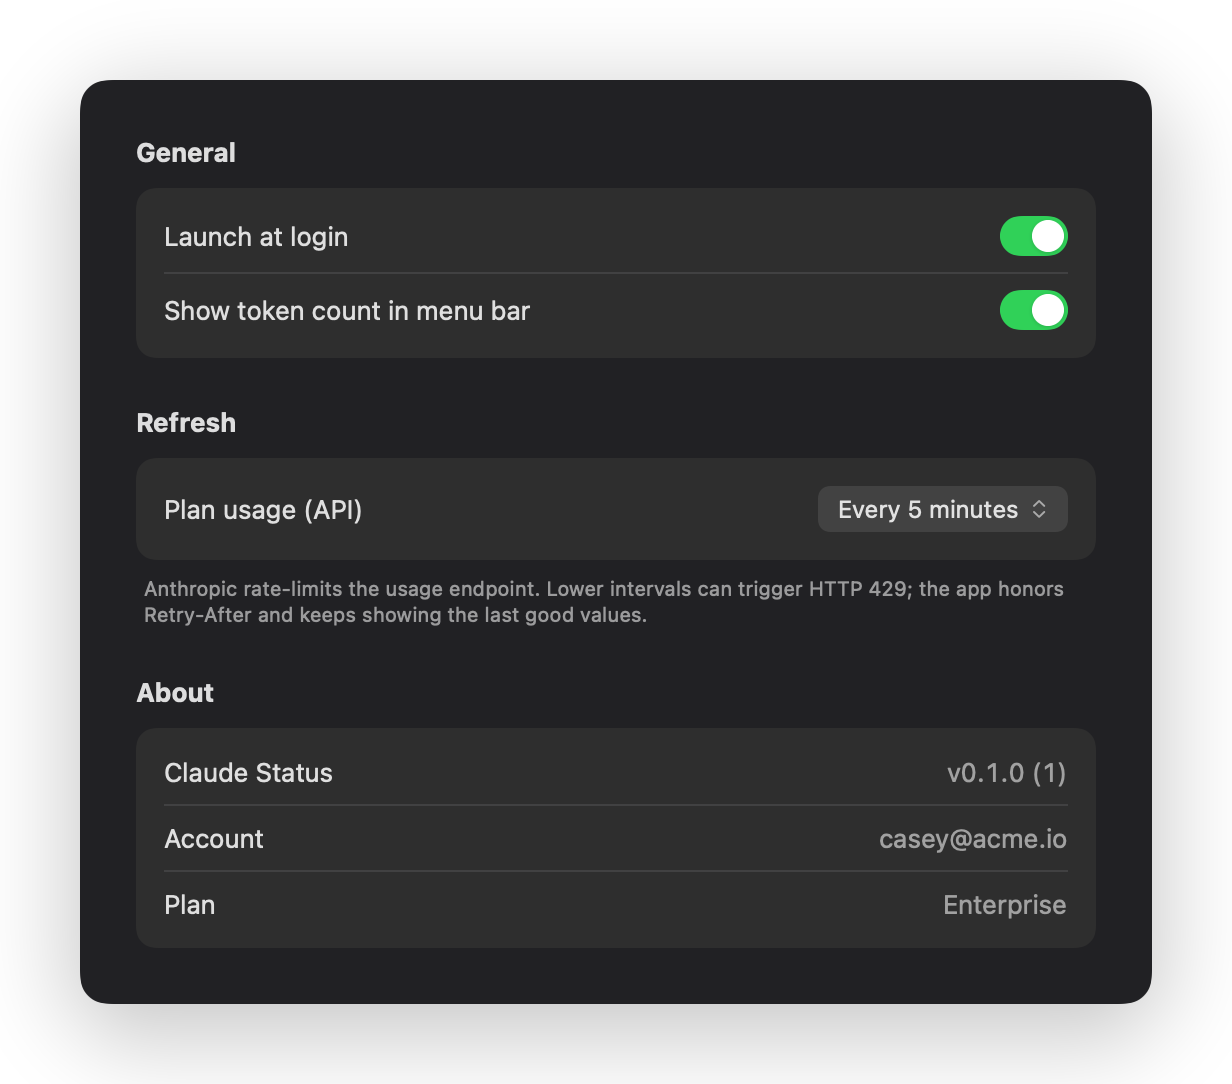
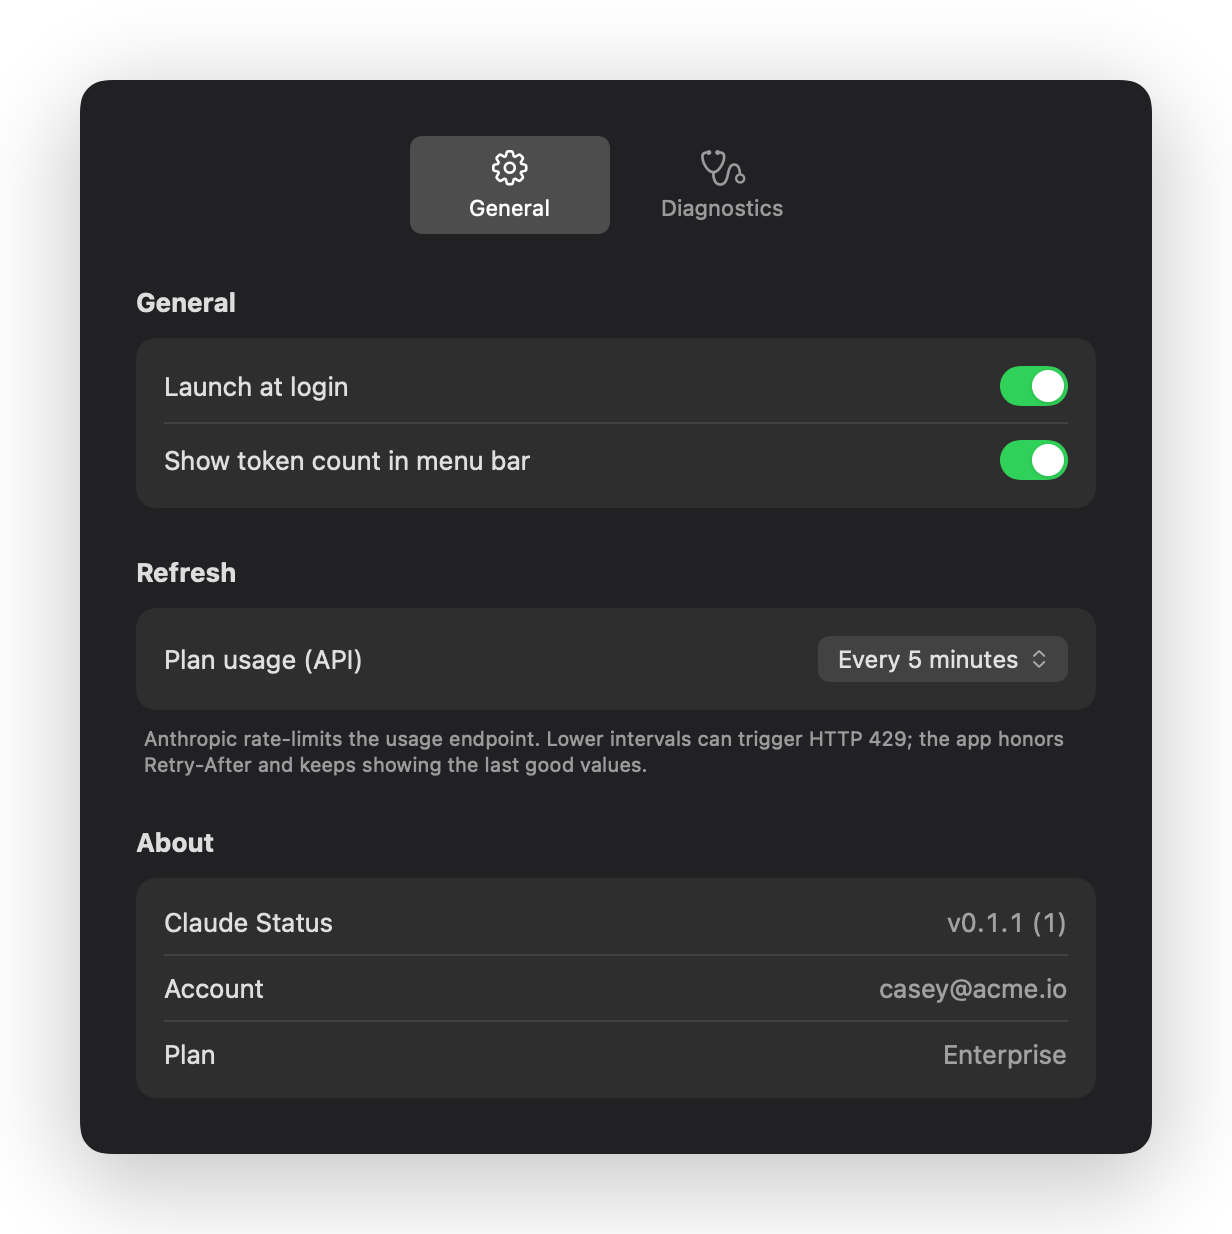
Website + screenshots for the Diagnostics pane
Screenshots:
- New `--screenshot diagnostics` variant renders a StaticDiagnosticsView
  mimic (Form/.grouped still lays out blank through ImageRenderer), with
  anonymous demo entries covering all three states: the live entry, a
  stale one from an old login, and one this app can't read.
- StaticSettingsView gains the General/Diagnostics tab strip so the
  settings shots match the real tabbed window.
- The About row's version moves to ScreenshotMode.displayVersion; it read
  a hardcoded v0.1.0. The release checklist now calls out bumping it.

Website:
- Feature card 07, full-width via .card-wide, explaining why the pane is
  read-only and how the removal command works.
- Diagnostics figure in the gallery.
- Two FAQ entries: the "token expired right after login" case, and why
  the app won't delete Keychain entries for you.
- Card 06 said "Ad-hoc signed today; notarized build coming" — stale
  since v0.1.0 ships signed and notarized.

Only settings-*.png changed among the existing assets; the popup and
marketing renders were byte-churn with no visual change, so they're left
alone rather than adding ~16 MB of identical PNGs to history.

diff --git a/Sources/ClaudeStatus/ScreenshotMode.swift b/Sources/ClaudeStatus/ScreenshotMode.swift
@@ -8,6 +8,12 @@ enum ScreenshotMode {
     static let canvasWidth: CGFloat = 1440
     static let canvasHeight: CGFloat = 900
 
+    /// Version string painted into the About row of the Settings mimic.
+    /// The screenshot binary runs outside an .app bundle, so there's no
+    /// Info.plist to read — keep this in step with `version` in
+    /// Bundler.toml (the release checklist calls it out).
+    static let displayVersion = "v0.1.1 (1)"
+
     /// Render screenshots with anonymous demo data.
     ///   kind = enterprise | pro            (full-canvas App-Store gallery)
     ///        | popup-enterprise | popup-pro (just the dropdown card)
@@ -20,8 +26,8 @@ enum ScreenshotMode {
         let kinds: [String]
         switch rawKind.lowercased() {
         case "all":
-            kinds = ["enterprise", "pro", "popup-enterprise", "popup-pro", "settings"]
-        case let s where ["enterprise", "pro", "popup-enterprise", "popup-pro", "settings"].contains(s):
+            kinds = ["enterprise", "pro", "popup-enterprise", "popup-pro", "settings", "diagnostics"]
+        case let s where ["enterprise", "pro", "popup-enterprise", "popup-pro", "settings", "diagnostics"].contains(s):
             kinds = [s]
         default:
             FileHandle.standardError.write(Data("unknown kind: \(rawKind)\n".utf8))
@@ -35,6 +41,7 @@ enum ScreenshotMode {
             case "popup-enterprise": renderPopup(planKey: "enterprise",     outDir: outDir)
             case "popup-pro":        renderPopup(planKey: "pro",            outDir: outDir)
             case "settings":         renderSettings(outDir: outDir)
+            case "diagnostics":      renderDiagnostics(outDir: outDir)
             default: break
             }
         }
@@ -115,6 +122,23 @@ enum ScreenshotMode {
         }
     }
 
+    private static func renderDiagnostics(outDir: String) {
+        for scheme: ColorScheme in [.light, .dark] {
+            let suffix = scheme == .light ? "light" : "dark"
+            let outURL = URL(fileURLWithPath: outDir)
+                .appendingPathComponent("diagnostics-\(suffix).png")
+
+            let view = StaticDiagnosticsView(
+                entries: DemoData.diagnostics(),
+                scheme: scheme
+            )
+            .padding(40)
+            .environment(\.colorScheme, scheme)
+
+            writePNG(view: view, to: outURL, opaque: false)
+        }
+    }
+
     // MARK: - Renderer plumbing
 
     private static func writePNG<V: View>(view: V, to outURL: URL, opaque: Bool) {
@@ -147,6 +171,7 @@ private struct StaticSettingsView: View {
 
     var body: some View {
         VStack(alignment: .leading, spacing: 24) {
+            SettingsTabStrip(active: .general, scheme: scheme)
             section(header: "General") {
                 row { Text("Launch at login") } trailing: { toggle(on: true) }
                 divider
@@ -164,7 +189,7 @@ private struct StaticSettingsView: View {
 
             section(header: "About") {
                 row { Text("Claude Status") } trailing: {
-                    Text("v0.1.0 (1)").monospacedDigit().foregroundStyle(.secondary)
+                    Text(ScreenshotMode.displayVersion).monospacedDigit().foregroundStyle(.secondary)
                 }
                 divider
                 row { Text("Account") } trailing: {
@@ -264,6 +289,173 @@ private struct StaticSettingsView: View {
                       ? Color(white: 0.26)
                       : Color(white: 0.94))
         )
+    }
+}
+
+/// macOS-style Settings tab strip. Hand-rolled for the same reason as
+/// `StaticSettingsView` — a real `TabView` lays out blank through
+/// `ImageRenderer`.
+private struct SettingsTabStrip: View {
+    enum Tab { case general, diagnostics }
+    let active: Tab
+    let scheme: ColorScheme
+
+    var body: some View {
+        HStack(spacing: 6) {
+            Spacer()
+            tab("General", systemImage: "gearshape", isActive: active == .general)
+            tab("Diagnostics", systemImage: "stethoscope", isActive: active == .diagnostics)
+            Spacer()
+        }
+        .padding(.bottom, 2)
+    }
+
+    private func tab(_ title: String, systemImage: String, isActive: Bool) -> some View {
+        VStack(spacing: 3) {
+            Image(systemName: systemImage)
+                .font(.system(size: 17, weight: .regular))
+            Text(title).font(.system(size: 11))
+        }
+        .foregroundStyle(isActive
+                         ? (scheme == .dark ? Color.white : Color.black)
+                         : Color.secondary)
+        .frame(width: 100)
+        .padding(.vertical, 6)
+        .background(
+            RoundedRectangle(cornerRadius: 6)
+                .fill(isActive
+                      ? (scheme == .dark ? Color(white: 0.30) : Color(white: 0.86))
+                      : Color.clear)
+        )
+    }
+}
+
+/// Hand-rolled mimic of `DiagnosticsView` for ImageRenderer.
+private struct StaticDiagnosticsView: View {
+    let entries: [KeychainEntryDiagnostic]
+    let scheme: ColorScheme
+
+    var body: some View {
+        VStack(alignment: .leading, spacing: 24) {
+            SettingsTabStrip(active: .diagnostics, scheme: scheme)
+
+            VStack(alignment: .leading, spacing: 8) {
+                Text("Credential entries").font(.headline)
+                VStack(spacing: 0) {
+                    ForEach(Array(entries.enumerated()), id: \.element.id) { idx, e in
+                        if idx > 0 { divider }
+                        row(e)
+                    }
+                }
+                .padding(.vertical, 8)
+                .padding(.horizontal, 14)
+                .background(
+                    RoundedRectangle(cornerRadius: 10)
+                        .fill(scheme == .dark ? Color(white: 0.18) : Color.white)
+                )
+                Text("""
+                     Claude Status reads these and never writes to the Keychain. \
+                     It uses the entry with the latest expiry — the one marked In use. \
+                     Extra entries are inert.
+                     """)
+                    .font(.caption)
+                    .foregroundStyle(.secondary)
+                    .padding(.horizontal, 4)
+                    .fixedSize(horizontal: false, vertical: true)
+            }
+        }
+        .frame(width: 480)
+        .padding(.vertical, 28)
+        .padding(.horizontal, 28)
+        .background(
+            RoundedRectangle(cornerRadius: 14)
+                .fill(scheme == .dark
+                      ? Color(red: 0.13, green: 0.13, blue: 0.14)
+                      : Color(red: 0.94, green: 0.94, blue: 0.96))
+                .shadow(color: .black.opacity(0.25), radius: 26, x: 0, y: 12)
+        )
+    }
+
+    @ViewBuilder
+    private func row(_ e: KeychainEntryDiagnostic) -> some View {
+        VStack(alignment: .leading, spacing: 5) {
+            HStack(spacing: 6) {
+                Text(e.account).font(.system(.body, design: .monospaced))
+                if e.isSelected {
+                    Text("IN USE")
+                        .font(.caption2.weight(.semibold))
+                        .padding(.horizontal, 5)
+                        .padding(.vertical, 1)
+                        .background(Capsule().fill(Color.accentColor.opacity(0.18)))
+                        .foregroundStyle(Color.accentColor)
+                }
+                Spacer()
+                Text(e.source.rawValue).font(.caption).foregroundStyle(.secondary)
+            }
+
+            status(e)
+
+            Text("Created \(Self.short(e.createdAt)) · Modified \(Self.short(e.modifiedAt))")
+                .font(.caption)
+                .foregroundStyle(.secondary)
+
+            if let plan = e.subscriptionType {
+                Text("Plan \(plan.capitalized)").font(.caption).foregroundStyle(.secondary)
+            }
+
+            if !e.isSelected {
+                HStack(spacing: 6) {
+                    Text("Copy removal command")
+                        .font(.caption)
+                        .padding(.horizontal, 8)
+                        .padding(.vertical, 3)
+                        .background(
+                            RoundedRectangle(cornerRadius: 5)
+                                .fill(scheme == .dark ? Color(white: 0.30) : Color(white: 0.93))
+                        )
+                    Text("not used by Claude Status")
+                        .font(.caption)
+                        .foregroundStyle(.secondary)
+                }
+                .padding(.top, 1)
+            }
+        }
+        .padding(.vertical, 9)
+    }
+
+    @ViewBuilder
+    private func status(_ e: KeychainEntryDiagnostic) -> some View {
+        if let err = e.readError {
+            label("Not readable — \(err)",
+                  systemImage: "lock.trianglebadge.exclamationmark", tint: .orange)
+        } else if let exp = e.expiresAt, e.isExpired {
+            label("Expired \(Self.short(exp))", systemImage: "xmark.circle.fill", tint: .red)
+        } else if let exp = e.expiresAt {
+            label("Valid until \(Self.short(exp))", systemImage: "checkmark.circle.fill", tint: .green)
+        } else {
+            label("No expiry in payload", systemImage: "questionmark.circle", tint: .secondary)
+        }
+    }
+
+    private func label(_ text: String, systemImage: String, tint: Color) -> some View {
+        HStack(spacing: 4) {
+            Image(systemName: systemImage).imageScale(.small)
+            Text(text)
+        }
+        .font(.caption)
+        .foregroundStyle(tint)
+    }
+
+    private var divider: some View {
+        Rectangle().fill(Color.gray.opacity(0.18)).frame(height: 1)
+    }
+
+    private static func short(_ d: Date?) -> String {
+        guard let d else { return "—" }
+        let f = DateFormatter()
+        f.dateStyle = .medium
+        f.timeStyle = .short
+        return f.string(from: d)
     }
 }
 

diff --git a/website/index.html b/website/index.html
@@ -201,7 +201,17 @@
       <article class="card">
         <span class="card-num">06</span>
         <h3>Open source</h3>
-        <p>Auditable end-to-end. Distributed via a Homebrew cask. Ad-hoc signed today; notarized build coming with an Apple Developer ID.</p>
+        <p>Auditable end-to-end. Distributed via a Homebrew cask, signed with an Apple Developer ID and notarized by Apple.</p>
+      </article>
+      <article class="card card-wide">
+        <span class="card-num">07</span>
+        <h3>Diagnostics that explain themselves</h3>
+        <p>
+          Claude Code can leave several <code>Claude Code-credentials</code> entries in your Keychain — an old one from before a username change, another from an older build. Claude Status picks the one with the latest expiry, and the <strong>Diagnostics</strong> tab shows you exactly which that was, alongside every entry it considered.
+        </p>
+        <p>
+          It's strictly read-only: the app never writes to your Keychain and has no delete button. Stale entries are harmless, so if you'd rather tidy up, each unused row hands you the exact <code>security delete-generic-password</code> command to run yourself. No token is ever displayed or copied.
+        </p>
       </article>
     </div>
   </div>
@@ -236,6 +246,13 @@
           <img src="assets/settings-light.png" alt="Settings window" loading="lazy">
         </picture>
         <figcaption><strong>Options.</strong> Pick how often the API gets polled — or turn it off entirely.</figcaption>
+      </figure>
+      <figure class="figure-wide">
+        <picture>
+          <source srcset="assets/diagnostics-dark.png" media="(prefers-color-scheme: dark)">
+          <img src="assets/diagnostics-light.png" alt="Diagnostics tab listing Keychain credential entries" loading="lazy">
+        </picture>
+        <figcaption><strong>Diagnostics.</strong> Every credential entry the app can see, which one it picked, and why the others lost.</figcaption>
       </figure>
     </div>
   </div>
@@ -350,6 +367,14 @@ brew install --cask claude-status" aria-label="Copy install command">Copy</butto
       <details>
         <summary><span>Can I disable the API call entirely?</span></summary>
         <p>Yes. <em>Options → Refresh → Manual only</em>. The local-log charts (today / this week with per-model breakdown) keep working — only the plan-level rows go quiet.</p>
+      </details>
+      <details>
+        <summary><span>It says my token expired, but I just logged in.</span></summary>
+        <p>Open <em>Options → Diagnostics</em>. Claude Code can leave several <code>Claude Code-credentials</code> entries in your Keychain, and the tab shows every one it found, each entry's expiry, and which one is <strong>In use</strong>. Claude Code also refreshes tokens in memory without always writing them back, so a <code>claude /logout</code> followed by a fresh login is the reliable way to write a new entry.</p>
+      </details>
+      <details>
+        <summary><span>Can it clean up old Keychain entries for me?</span></summary>
+        <p>Deliberately not. Extra entries are inert — the app picks the one with the latest expiry, so a stale entry can never win — and removing the wrong one would log you out of Claude Code. Instead, each unused row in <em>Diagnostics</em> gives you the exact <code>security delete-generic-password</code> command, so the destructive step stays in your own shell.</p>
       </details>
       <details>
         <summary><span>What macOS version do I need?</span></summary>

diff --git a/Sources/ClaudeStatus/DemoData.swift b/Sources/ClaudeStatus/DemoData.swift
@@ -82,6 +82,53 @@ enum DemoData {
         return s
     }
 
+    /// Anonymous credential inventory for the Diagnostics screenshot.
+    /// Deliberately shows all three interesting states at once: the live
+    /// entry, a stale one left behind by an old login, and one this app was
+    /// never authorized to read.
+    static func diagnostics() -> [KeychainEntryDiagnostic] {
+        let day: TimeInterval = 86_400
+        return [
+            KeychainEntryDiagnostic(
+                id: "keychain:claude-code-user",
+                account: "claude-code-user",
+                source: .keychain,
+                path: nil,
+                createdAt: Date().addingTimeInterval(-45 * day),
+                modifiedAt: Date().addingTimeInterval(-2 * 3600),
+                expiresAt: Date().addingTimeInterval(6 * 3600),
+                subscriptionType: "enterprise",
+                hasAccessToken: true,
+                readError: nil,
+                isSelected: true
+            ),
+            KeychainEntryDiagnostic(
+                id: "keychain:casey",
+                account: "casey",
+                source: .keychain,
+                path: nil,
+                createdAt: Date().addingTimeInterval(-210 * day),
+                modifiedAt: Date().addingTimeInterval(-92 * day),
+                expiresAt: Date().addingTimeInterval(-92 * day),
+                subscriptionType: "pro",
+                hasAccessToken: true,
+                readError: nil
+            ),
+            KeychainEntryDiagnostic(
+                id: "keychain:casey@acme.io",
+                account: "casey@acme.io",
+                source: .keychain,
+                path: nil,
+                createdAt: Date().addingTimeInterval(-180 * day),
+                modifiedAt: Date().addingTimeInterval(-120 * day),
+                expiresAt: nil,
+                subscriptionType: nil,
+                hasAccessToken: false,
+                readError: "authorization denied"
+            ),
+        ]
+    }
+
     static func proStore() -> UsageStore {
         let s = UsageStore(demo: true)
         s.account = "Sam"

diff --git a/website/styles.css b/website/styles.css
@@ -352,6 +352,20 @@ pre code { background: none; padding: 0; border: 0; border-radius: 0; }
   letter-spacing: -0.01em;
 }
 .card p { margin: 0; color: var(--text-2); font-size: 14.5px; }
+.card p + p { margin-top: 10px; }
+
+/* Spotlight card for a newly shipped feature — spans the whole grid so a
+   7th card doesn't dangle alone on its row. */
+.card-wide {
+  grid-column: 1 / -1;
+  border-color: color-mix(in srgb, var(--brand) 28%, var(--border));
+  background: linear-gradient(
+    135deg,
+    color-mix(in srgb, var(--brand) 5%, var(--bg-elev)),
+    var(--bg-elev) 60%
+  );
+}
+.card-wide p { max-width: 78ch; }
 
 /* ---------- Gallery ---------- */
 .gallery {

diff --git a/CLAUDE.md b/CLAUDE.md
@@ -580,6 +580,13 @@ To ship a new version: bump `version` in `Bundler.toml` and in
 from its output, cut a new GitHub release with the new DMG, push the
 cask change.
 
+**Also bump `ScreenshotMode.displayVersion`** — the About row in the
+Settings screenshot is painted from that constant, because the screenshot
+binary runs outside an .app bundle and has no Info.plist to read. If a
+release changes the UI, re-run `scripts/screenshots.sh` and commit the
+regenerated PNGs; pushing anything under `website/` auto-deploys the site
+via `.github/workflows/deploy-website.yaml`.
+
 ---
 
 ## Customizing
